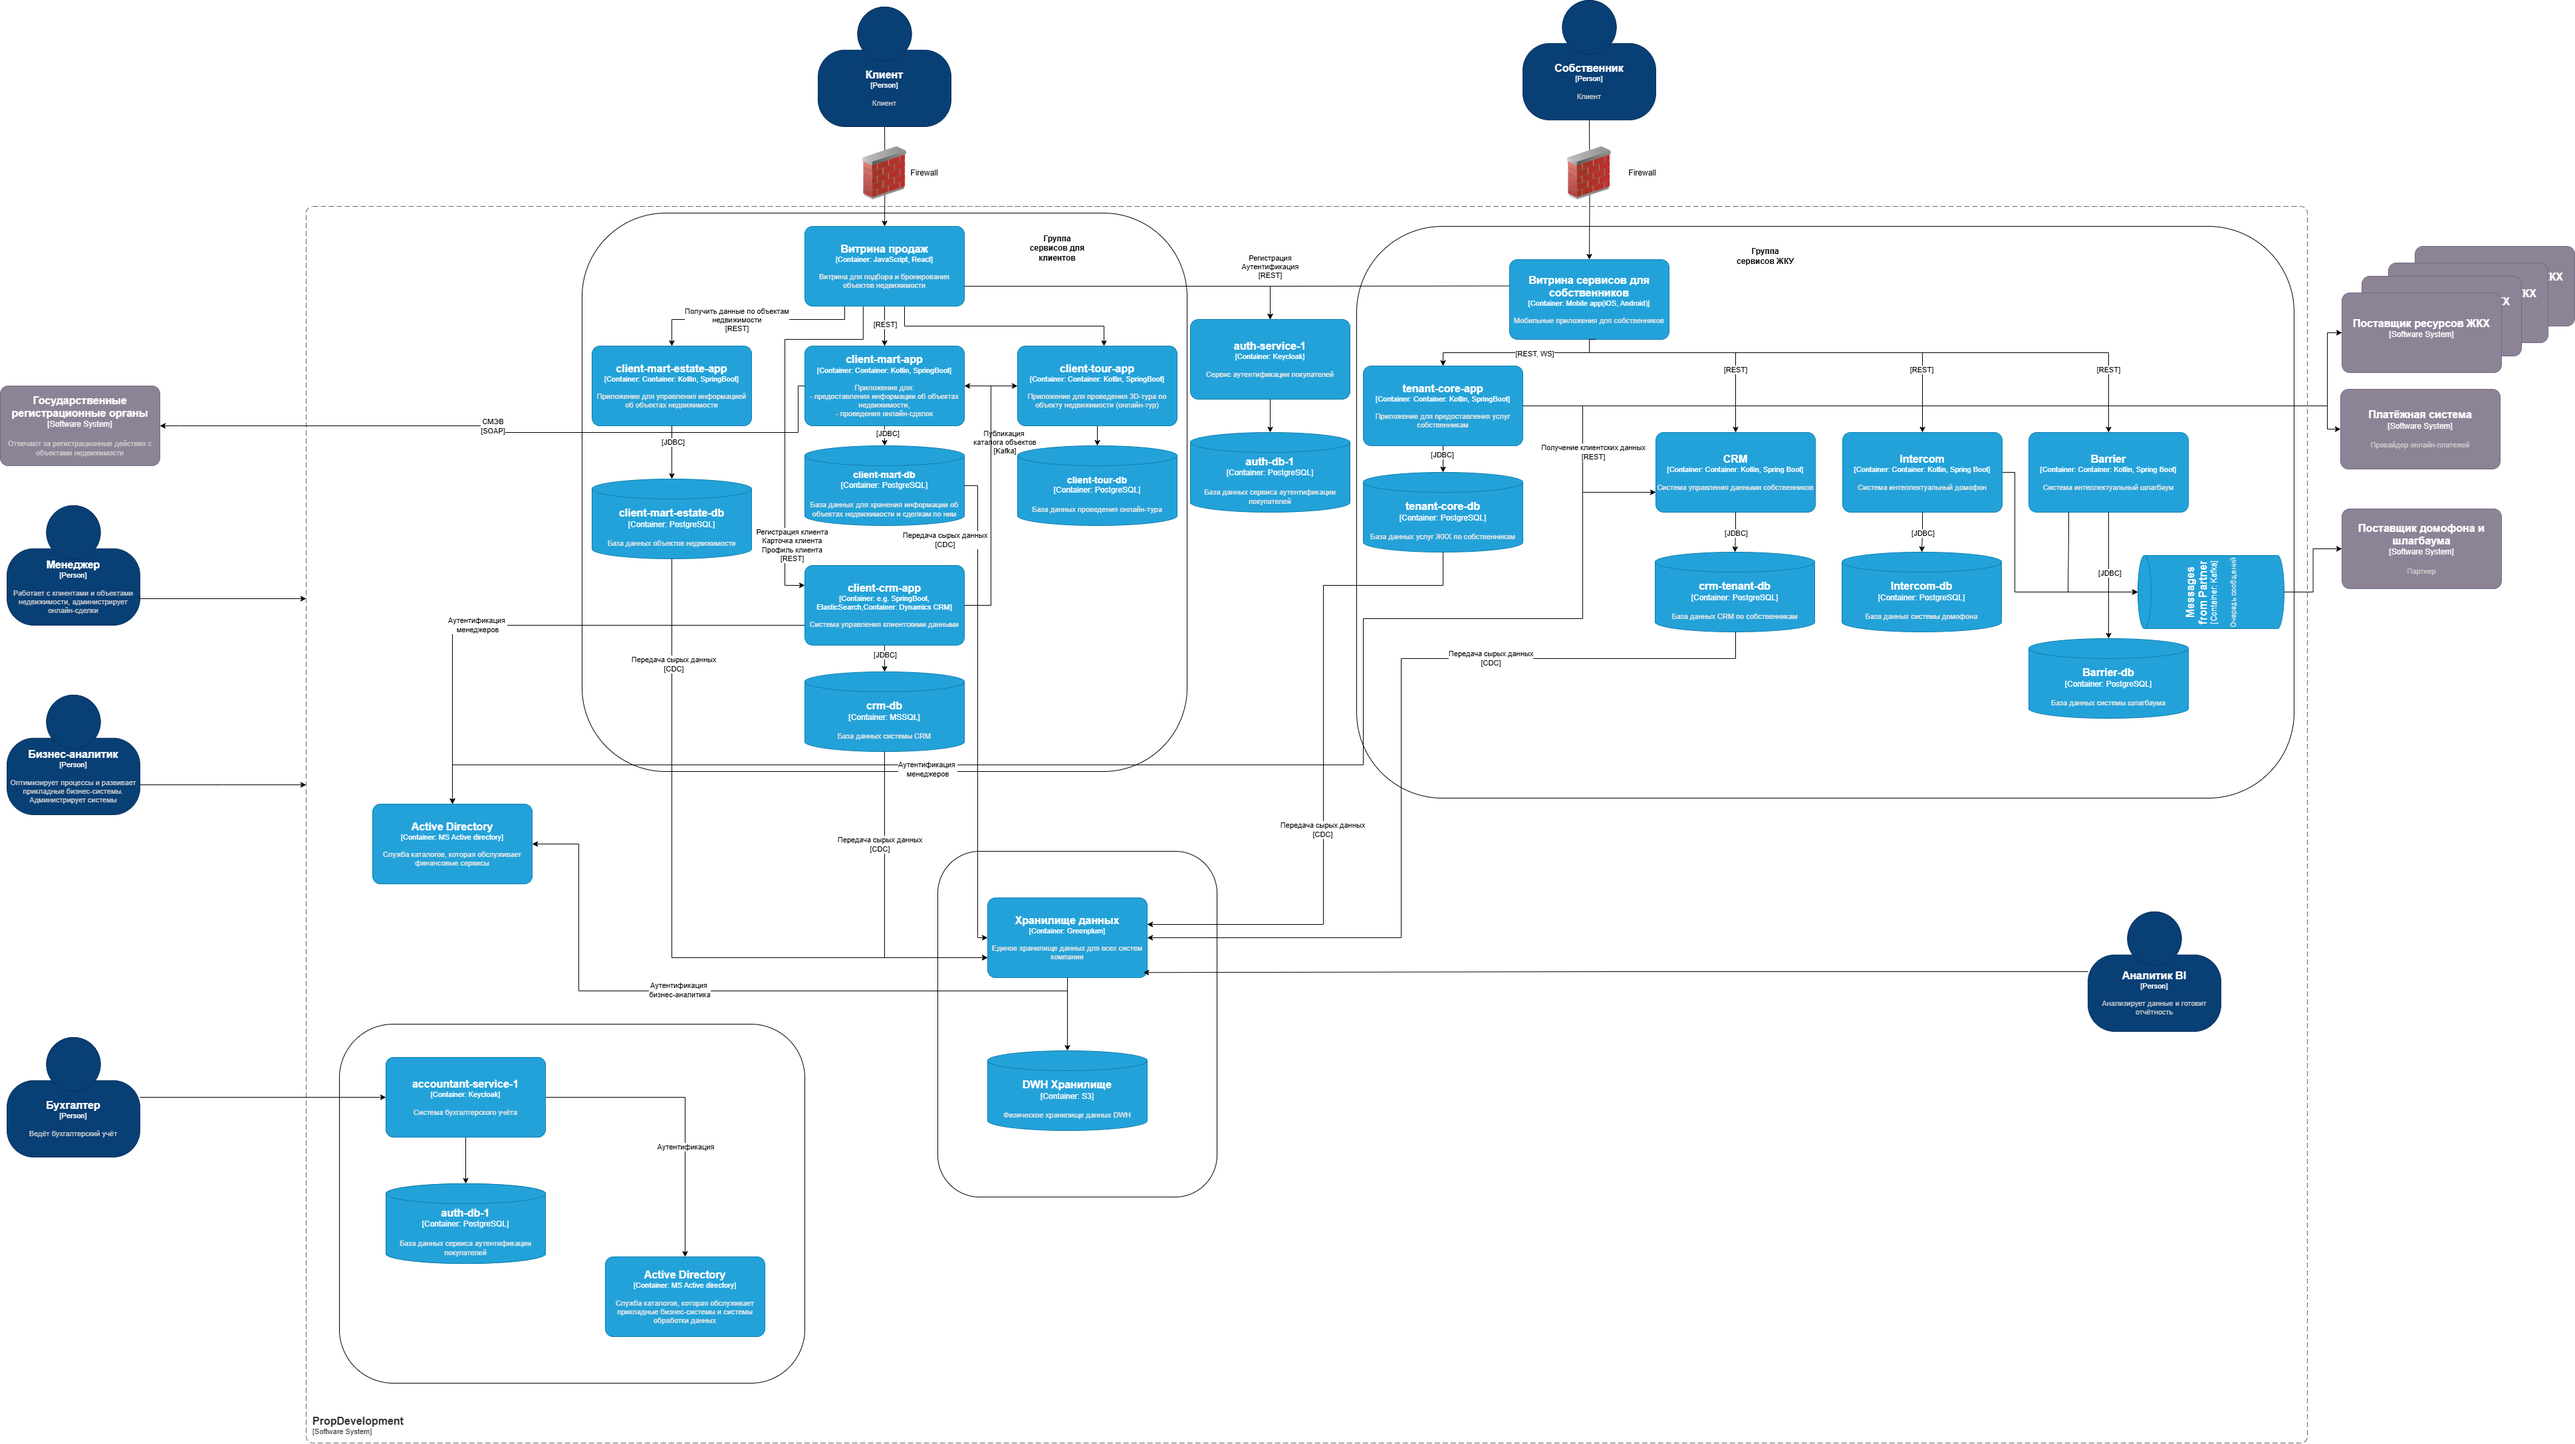
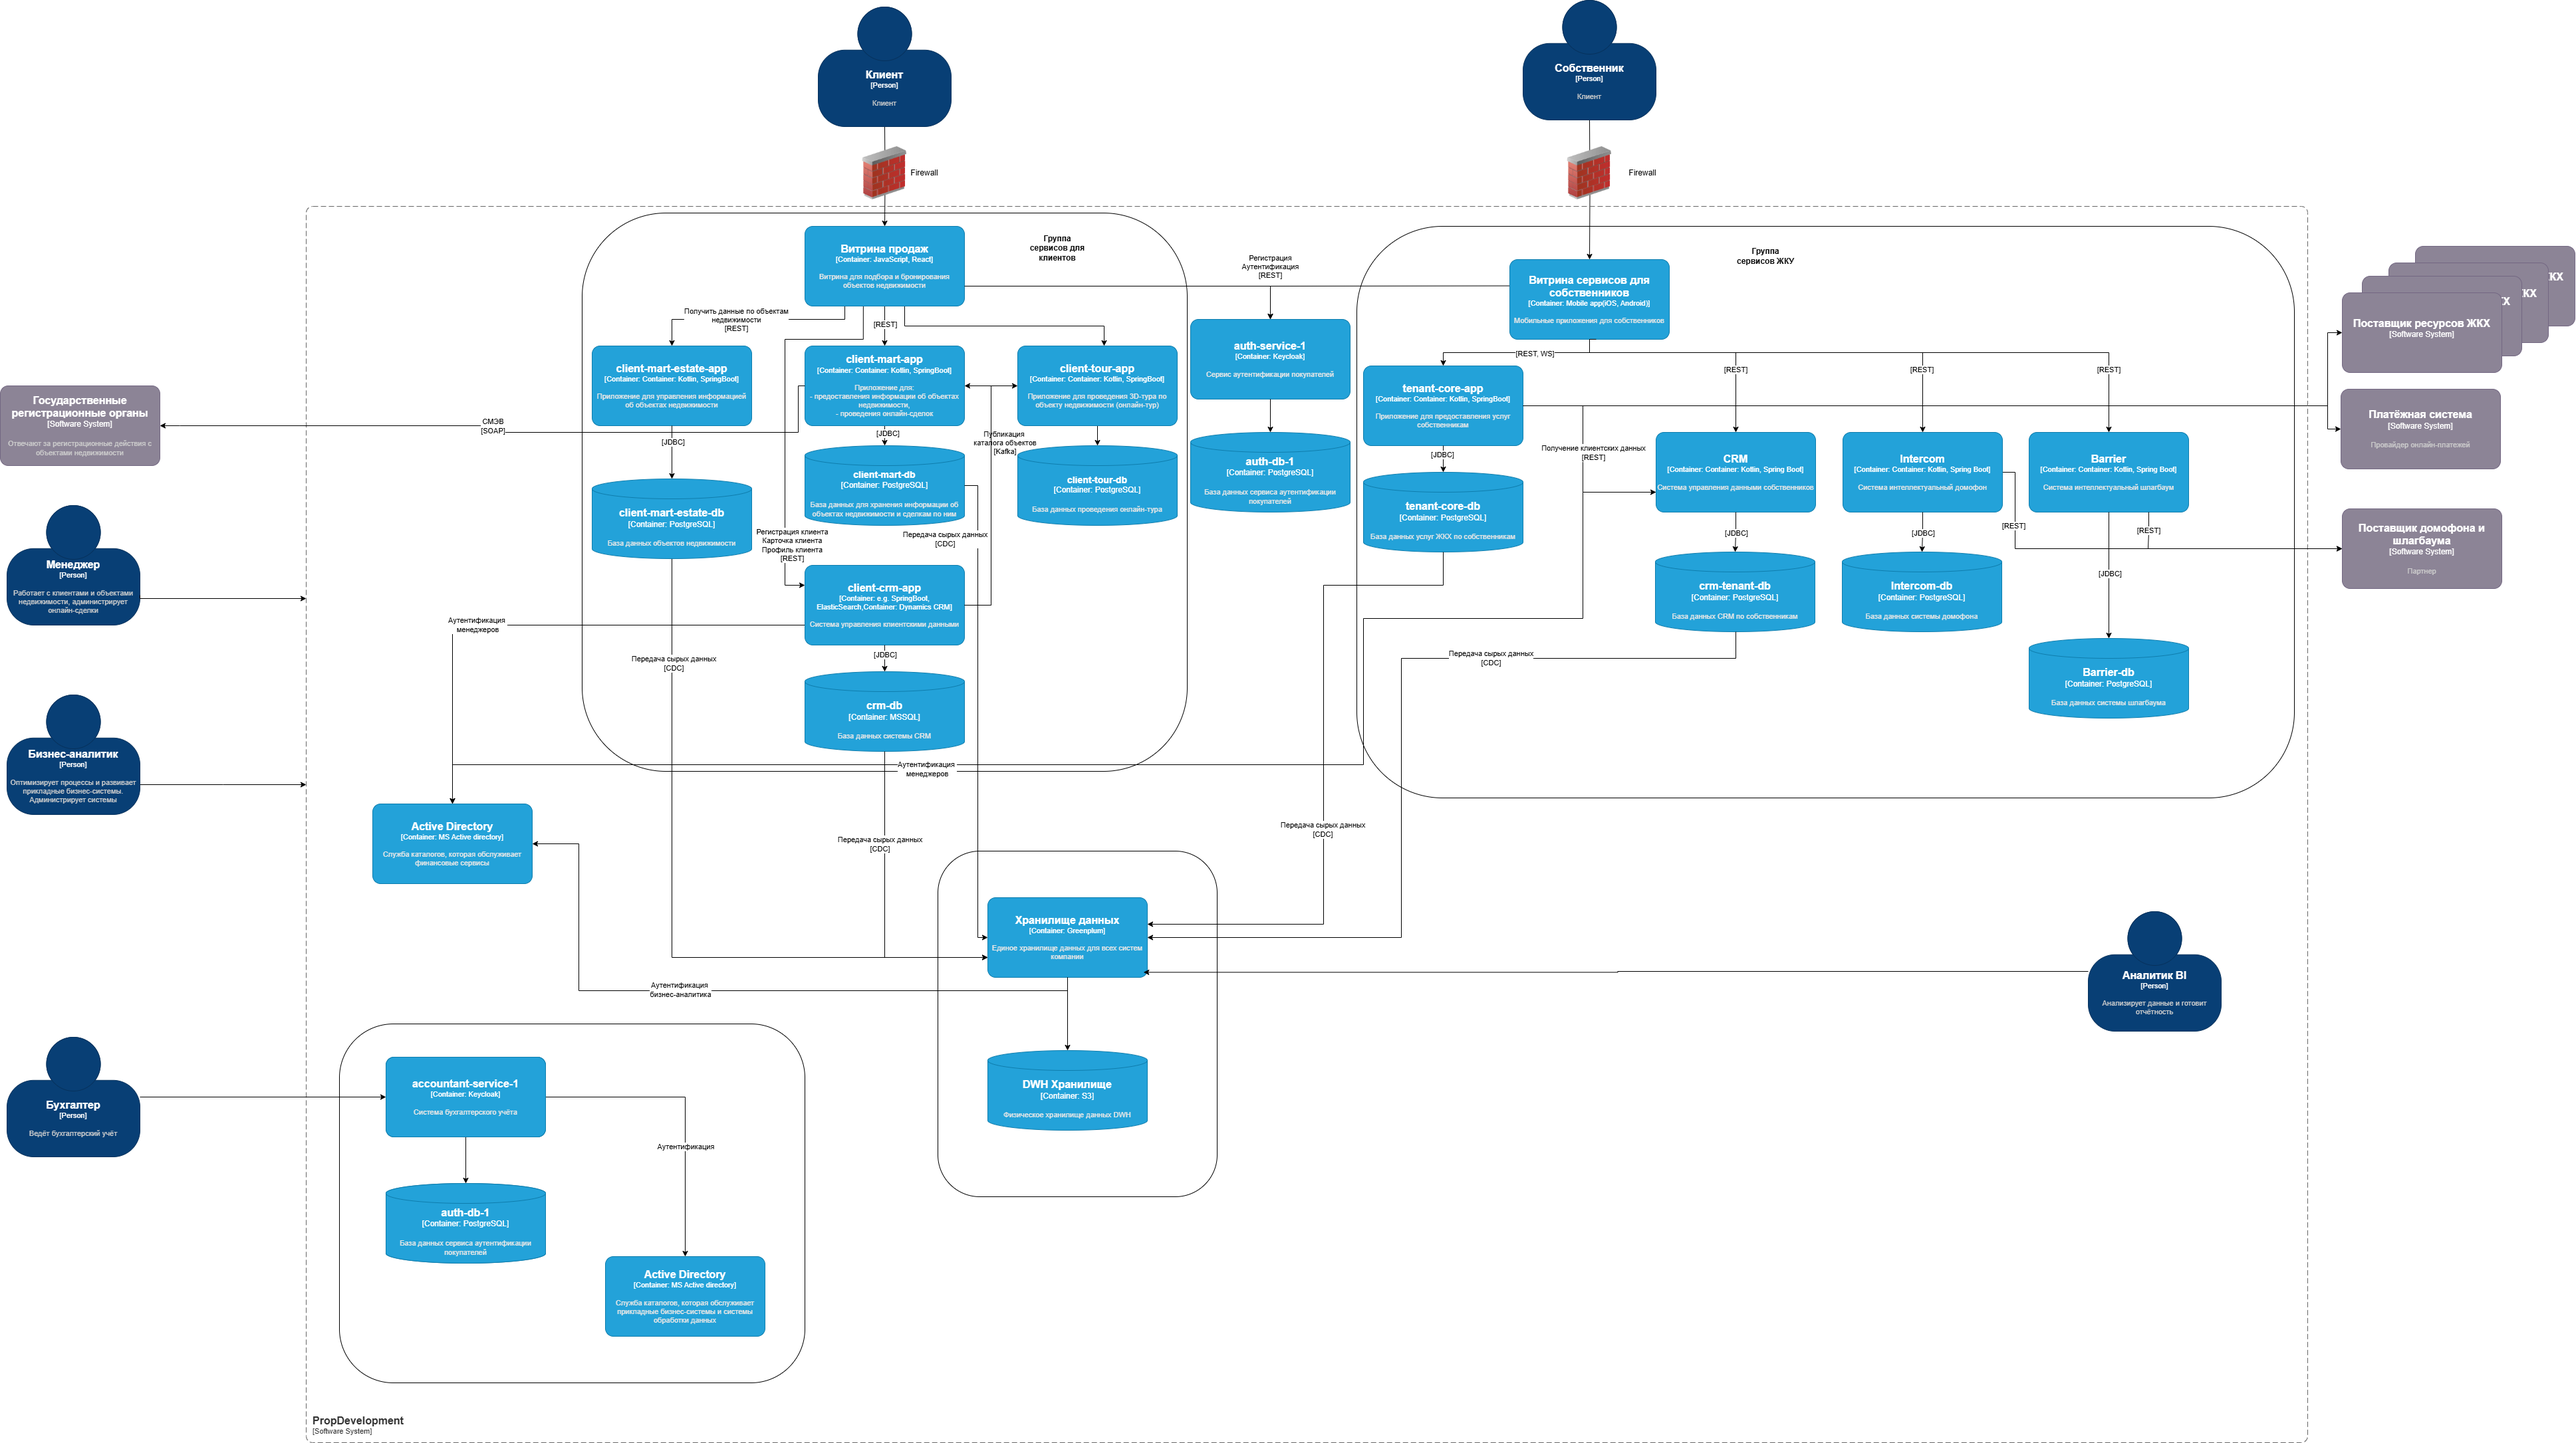
Fixed task3.

diff --git a/Task3/requirements.md b/Task3/requirements.md
@@ -1,6 +1,6 @@
  # требования к безопасности
  - хранение биометрических данных и номеров в зашифрованном виде (AES)
- - коммуникация с партнером при помощи безопасного соединения (TLS)
+ - коммуникация с партнером при помощи безопасного соединения (TLS не ниже 1.2)
  - журналирование действий и их аудит
  - настройка алертинга для подозрительных действий
 
@@ -8,5 +8,4 @@
 протокол аутентификации и авторизации OAuth 2.0 с включенным MFA. Keycloac,который уже используется в системе поддерживает OAuth 2.0.
 
 # описание взаимодействия между системами предприятия и внешней платформой
-- получаем нотификацию от партнера если сработала камера на шлагбауме или домофоне
-- кладем нотификацию в очередь Kafka
+- можно предоставить свой API для ивентов, чтобы реализовать через Webhook API (если партнер поддерживает), либо вызывать с какой-то частотой API, который предоставил партнер (pull)
